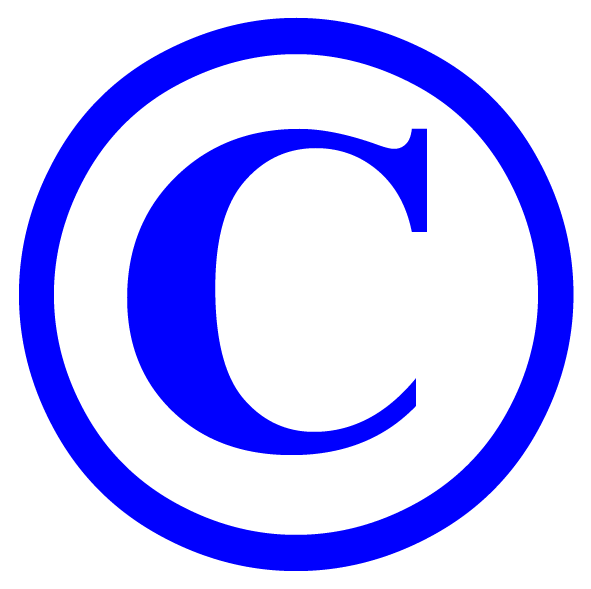
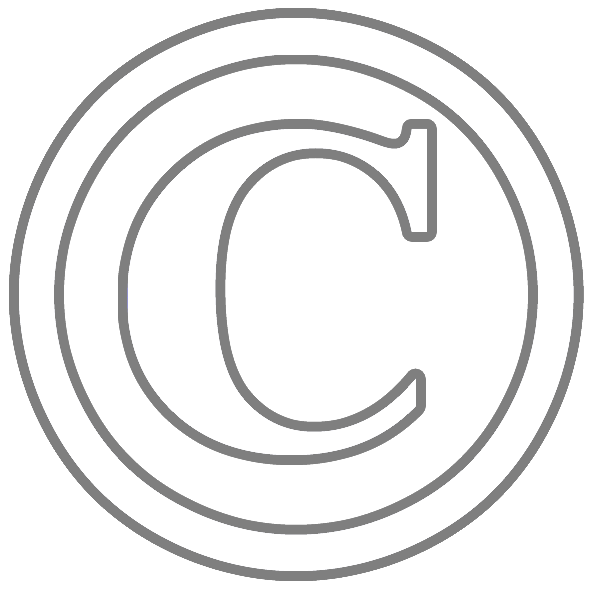
Updated watermarks, blend with resampling so watermark isn't jagged.
git-svn-id: http://www.zenphoto.org/svn/trunk@1280 46129fc4-274e-7f48-8cfa-5da4c607681c

diff --git a/zp-core/functions-image.php b/zp-core/functions-image.php
@@ -239,12 +239,12 @@ function imageResizeAlpha(&$src, $w, $h) {
 
 	/* making the new image transparent */
 	$background = imagecolorallocate($temp, 0, 0, 0);
-	ImageColorTransparent($temp, $background); // make the new temp image all transparent
+	imagecolortransparent($temp, $background); // make the new temp image all transparent
 	imagealphablending($temp, false); // turn off the alpha blending to keep the alpha channel
 
 	/* Resize the PNG file */
 	/* use imagecopyresized to gain some performance but loose some quality */
-	imagecopyresized($temp, $src, 0, 0, 0, 0, $w, $h, imagesx($src), imagesy($src));
+	imagecopyresampled($temp, $src, 0, 0, 0, 0, $w, $h, imagesx($src), imagesy($src));
 	/* use imagecopyresampled if you concern more about the quality */
 	//imagecopyresampled($temp, $src, 0, 0, 0, 0, $w, $h, imagesx($src), imagesy($src));
 	return $temp;
